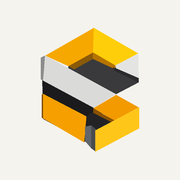
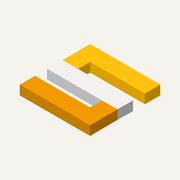
Marca em perspectiva isometrica extrudada, numeros do topo restaurados e avaliacoes completas

Changed region(s): [[0.0833, 0.1389, 0.9167, 0.8611]]

diff --git a/index.html b/index.html
@@ -55,17 +55,8 @@
   <!-- Definições gráficas compartilhadas (marca, ícones e filtros das ilustrações) -->
   <svg class="sprite" aria-hidden="true" focusable="false">
     <defs>
-      <linearGradient id="gHole" x1="0" y1="0" x2="0" y2="1"><stop offset="0" stop-color="#2c2c2e"/><stop offset="1" stop-color="#5a5a5d"/></linearGradient>
-    <linearGradient id="gWallL" x1="0" y1="0" x2="1" y2="0"><stop offset="0" stop-color="#6e4300"/><stop offset="1" stop-color="#a06a00"/></linearGradient>
-    <linearGradient id="gWallR" x1="0" y1="0" x2="1" y2="0"><stop offset="0" stop-color="#b87800"/><stop offset="1" stop-color="#8c5600"/></linearGradient>
-    <linearGradient id="gYL" x1="0" y1="1" x2="1" y2="0"><stop offset="0" stop-color="#F5A100"/><stop offset="1" stop-color="#FFB800"/></linearGradient>
-    <linearGradient id="gYR" x1="0" y1="1" x2="1" y2="0"><stop offset="0" stop-color="#FFC20E"/><stop offset="1" stop-color="#FFD800"/></linearGradient>
-    <linearGradient id="gGrayR" x1="0" y1="0" x2="1" y2="1"><stop offset="0" stop-color="#F2F2F0"/><stop offset="1" stop-color="#C9C9C7"/></linearGradient>
-    <linearGradient id="gGray" x1="0" y1="0" x2="1" y2="1"><stop offset="0" stop-color="#F6F6F4"/><stop offset="1" stop-color="#BDBDBB"/></linearGradient>
-    <linearGradient id="gOr" x1="0" y1="0" x2="1" y2="1"><stop offset="0" stop-color="#FFB000"/><stop offset="1" stop-color="#EE9200"/></linearGradient>
-    <linearGradient id="gOr2" x1="0" y1="0" x2="1" y2="1"><stop offset="0" stop-color="#F6A000"/><stop offset="1" stop-color="#EA8F00"/></linearGradient>
-    <linearGradient id="gYR2" x1="0" y1="1" x2="1" y2="0"><stop offset="0" stop-color="#FFC61A"/><stop offset="1" stop-color="#FFD400"/></linearGradient>
-      <g id="s-mark"><polygon points="108,404 420,572 540,664 432,716 368,700 368,782 112,642" fill="#1e1e20"/><polygon points="265,325 415,240 552,320 692,396 692,420 556,492 265,334" fill="url(#gHole)"/><polygon points="265,322 415,238 415,278 300,342" fill="url(#gWallL)"/><polygon points="415,238 552,318 552,342 415,278" fill="url(#gWallR)"/><polygon points="125,258 420,90 416,238 265,322" fill="url(#gYL)"/><polygon points="420,90 690,245 552,318 416,238" fill="url(#gYR)"/><polygon points="552,318 690,248 692,395 556,336" fill="url(#gGrayR)"/><polygon points="535,330 556,336 692,395 692,420 550,352" fill="#2b2b2d"/><polygon points="108,408 418,576 416,602 376,634 112,492" fill="#1b1b1d"/><polygon points="98,270 122,258 112,410 98,402" fill="#8c8c8c"/><polygon points="125,258 555,492 420,575 112,410" fill="url(#gGray)"/><polygon points="104,495 112,490 112,640 104,636" fill="#7a4a00"/><polygon points="112,490 375,628 362,785 112,640" fill="url(#gOr)"/><polygon points="375,628 415,600 535,662 432,708 385,690" fill="#232325"/><polygon points="368,690 405,682 405,822 368,778" fill="#62666a"/><polygon points="405,682 432,706 432,842 405,822" fill="#484b4e"/><polygon points="418,578 556,496 692,572 545,652" fill="url(#gOr2)"/><polygon points="418,582 545,652 545,672 418,606" fill="#8a5200"/><polygon points="430,712 695,572 695,700 430,842" fill="url(#gYR2)"/></g>
+      
+      <g id="s-mark"><polygon points="180.0,6.0 318.6,86.0 288.1,103.6 149.5,23.6" fill="#FFC20E"/><polygon points="149.5,23.6 288.1,103.6 288.1,124.4 149.5,44.4" fill="#D9A000"/><polygon points="318.6,86.0 288.1,103.6 288.1,124.4 318.6,106.8" fill="#B08000"/><polygon points="149.5,23.6 180.0,41.2 156.4,54.8 126.0,37.2" fill="#FFC20E"/><polygon points="126.0,37.2 156.4,54.8 156.4,75.6 126.0,58.0" fill="#D9A000"/><polygon points="180.0,41.2 156.4,54.8 156.4,75.6 180.0,62.0" fill="#B08000"/><polygon points="126.0,37.2 264.5,117.2 234.0,134.8 95.5,54.8" fill="#F2F1ED"/><polygon points="95.5,54.8 234.0,134.8 234.0,155.6 95.5,75.6" fill="#B9BABC"/><polygon points="264.5,117.2 234.0,134.8 234.0,155.6 264.5,138.0" fill="#8F9093"/><polygon points="203.6,117.2 234.0,134.8 210.5,148.4 180.0,130.8" fill="#F29A00"/><polygon points="180.0,130.8 210.5,148.4 210.5,169.2 180.0,151.6" fill="#C27C00"/><polygon points="234.0,134.8 210.5,148.4 210.5,169.2 234.0,155.6" fill="#995F00"/><polygon points="71.9,68.4 210.5,148.4 180.0,166.0 41.4,86.0" fill="#F29A00"/><polygon points="41.4,86.0 180.0,166.0 180.0,186.8 41.4,106.8" fill="#C27C00"/><polygon points="210.5,148.4 180.0,166.0 180.0,186.8 210.5,169.2" fill="#995F00"/></g>
       <filter id="grain" x="0" y="0" width="100%" height="100%">
         <feTurbulence type="fractalNoise" baseFrequency=".9" numOctaves="2" seed="7"/>
         <feColorMatrix type="matrix" values="0 0 0 0 0  0 0 0 0 0  0 0 0 0 0  0 0 0 1.1 -.3"/>
@@ -86,7 +77,7 @@
   <header class="site-header">
     <div class="wrap">
       <a class="brand" href="#topo" aria-label="Saguiar Premoldados, início">
-        <svg class="brand__mark" viewBox="88 84 618 766" aria-hidden="true"><use href="#s-mark"/></svg>
+        <svg class="brand__mark" viewBox="0 0 360 200" aria-hidden="true"><use href="#s-mark"/></svg>
         <span><span class="brand__name">SAGUIAR</span><span class="brand__sub">PREMOLDADOS</span></span>
       </a>
       <button class="nav-toggle" type="button" aria-label="Abrir menu" aria-expanded="false" aria-controls="menu"><span></span><span></span><span></span></button>
@@ -117,26 +108,24 @@
 
           <div class="stage" aria-hidden="true">
             <div class="stage__mark">
-              <svg viewBox="88 84 618 766" focusable="false">
-          <g class="pc" style="--i:0;--x:0px;--y:-40px"><polygon points="108,404 420,572 540,664 432,716 368,700 368,782 112,642" fill="#1e1e20"/><polygon points="265,325 415,240 552,320 692,396 692,420 556,492 265,334" fill="url(#gHole)"/><polygon points="265,322 415,238 415,278 300,342" fill="url(#gWallL)"/><polygon points="415,238 552,318 552,342 415,278" fill="url(#gWallR)"/></g>
-          <g class="pc" style="--i:1;--x:0px;--y:-130px"><polygon points="125,258 420,90 416,238 265,322" fill="url(#gYL)"/><polygon points="420,90 690,245 552,318 416,238" fill="url(#gYR)"/></g>
-          <g class="pc" style="--i:2;--x:130px;--y:0px"><polygon points="552,318 690,248 692,395 556,336" fill="url(#gGrayR)"/><polygon points="535,330 556,336 692,395 692,420 550,352" fill="#2b2b2d"/></g>
-          <g class="pc" style="--i:3;--x:-130px;--y:0px"><polygon points="108,408 418,576 416,602 376,634 112,492" fill="#1b1b1d"/><polygon points="98,270 122,258 112,410 98,402" fill="#8c8c8c"/><polygon points="125,258 555,492 420,575 112,410" fill="url(#gGray)"/></g>
-          <g class="pc" style="--i:4;--x:0px;--y:130px"><polygon points="104,495 112,490 112,640 104,636" fill="#7a4a00"/><polygon points="112,490 375,628 362,785 112,640" fill="url(#gOr)"/></g>
-          <g class="pc" style="--i:5;--x:0px;--y:110px"><polygon points="375,628 415,600 535,662 432,708 385,690" fill="#232325"/><polygon points="368,690 405,682 405,822 368,778" fill="#62666a"/><polygon points="405,682 432,706 432,842 405,822" fill="#484b4e"/></g>
-          <g class="pc" style="--i:6;--x:130px;--y:80px"><polygon points="418,578 556,496 692,572 545,652" fill="url(#gOr2)"/><polygon points="418,582 545,652 545,672 418,606" fill="#8a5200"/><polygon points="430,712 695,572 695,700 430,842" fill="url(#gYR2)"/></g>
+              <svg viewBox="0 0 360 200" focusable="false">
+          <g class="pc" style="--i:0;--x:0px;--y:-90px"><polygon points="180.0,6.0 318.6,86.0 288.1,103.6 149.5,23.6" fill="#FFC20E"/><polygon points="149.5,23.6 288.1,103.6 288.1,124.4 149.5,44.4" fill="#D9A000"/><polygon points="318.6,86.0 288.1,103.6 288.1,124.4 318.6,106.8" fill="#B08000"/></g>
+          <g class="pc" style="--i:1;--x:-70px;--y:-70px"><polygon points="149.5,23.6 180.0,41.2 156.4,54.8 126.0,37.2" fill="#FFC20E"/><polygon points="126.0,37.2 156.4,54.8 156.4,75.6 126.0,58.0" fill="#D9A000"/><polygon points="180.0,41.2 156.4,54.8 156.4,75.6 180.0,62.0" fill="#B08000"/></g>
+          <g class="pc" style="--i:2;--x:0px;--y:-120px"><polygon points="126.0,37.2 264.5,117.2 234.0,134.8 95.5,54.8" fill="#F2F1ED"/><polygon points="95.5,54.8 234.0,134.8 234.0,155.6 95.5,75.6" fill="#B9BABC"/><polygon points="264.5,117.2 234.0,134.8 234.0,155.6 264.5,138.0" fill="#8F9093"/></g>
+          <g class="pc" style="--i:3;--x:70px;--y:70px"><polygon points="203.6,117.2 234.0,134.8 210.5,148.4 180.0,130.8" fill="#F29A00"/><polygon points="180.0,130.8 210.5,148.4 210.5,169.2 180.0,151.6" fill="#C27C00"/><polygon points="234.0,134.8 210.5,148.4 210.5,169.2 234.0,155.6" fill="#995F00"/></g>
+          <g class="pc" style="--i:4;--x:0px;--y:110px"><polygon points="71.9,68.4 210.5,148.4 180.0,166.0 41.4,86.0" fill="#F29A00"/><polygon points="41.4,86.0 180.0,166.0 180.0,186.8 41.4,106.8" fill="#C27C00"/><polygon points="210.5,148.4 180.0,166.0 180.0,186.8 210.5,169.2" fill="#995F00"/></g>
               </svg>
             </div>
-            <span class="tag tag--1">pré-moldado <b>de concreto</b></span>
-            <span class="tag tag--2">feito em <b>São Luís · MA</b></span>
-            <span class="tag tag--3">entrega <b>na obra</b></span>
+            <span class="tag tag--1">fck <b>≥ 35 MPa</b></span>
+            <span class="tag tag--2">cura <b>28 dias</b></span>
+            <span class="tag tag--3">lote <b>0742 · aprovado</b></span>
           </div>
         </div>
 
         <div class="stats">
-          <div><strong><span data-count="5" data-decimals="1">5,0</span><i>/5</i></strong><span>nota dos clientes no Google</span></div>
-          <div><strong><span data-count="8">8</span></strong><span>linhas de produtos</span></div>
-          <div><strong>MA</strong><span>São Luís, Maranhão</span></div>
+          <div><strong><span data-count="16">16</span><i>+</i></strong><span>anos de fábrica</span></div>
+          <div><strong><span data-count="2400">2.400</span><i>+</i></strong><span>obras atendidas</span></div>
+          <div><strong><span data-count="98">98</span><i>%</i></strong><span>entregas no prazo</span></div>
         </div>
       </div>
     </section>
@@ -325,12 +314,12 @@
           </li>
           <li class="review">
             <span class="stars" role="img" aria-label="5 de 5 estrelas"><svg aria-hidden="true"><use href="#i-star" fill="currentColor"/></svg><svg aria-hidden="true"><use href="#i-star" fill="currentColor"/></svg><svg aria-hidden="true"><use href="#i-star" fill="currentColor"/></svg><svg aria-hidden="true"><use href="#i-star" fill="currentColor"/></svg><svg aria-hidden="true"><use href="#i-star" fill="currentColor"/></svg></span>
-            <blockquote class="is-empty">Avaliou a Saguiar com 5 estrelas.</blockquote>
+            <blockquote>Produto de qualidade, atendimento atencioso e entrega no combinado. Recomendo a Saguiar para quem precisa de pré-moldado de confiança.</blockquote>
             <div class="review__who"><span class="review__avatar" aria-hidden="true">K</span><span><b>Kaique</b><small>Avaliação no Google</small></span></div>
           </li>
           <li class="review">
             <span class="stars" role="img" aria-label="5 de 5 estrelas"><svg aria-hidden="true"><use href="#i-star" fill="currentColor"/></svg><svg aria-hidden="true"><use href="#i-star" fill="currentColor"/></svg><svg aria-hidden="true"><use href="#i-star" fill="currentColor"/></svg><svg aria-hidden="true"><use href="#i-star" fill="currentColor"/></svg><svg aria-hidden="true"><use href="#i-star" fill="currentColor"/></svg></span>
-            <blockquote class="is-empty">Avaliou a Saguiar com 5 estrelas.</blockquote>
+            <blockquote>Peças bem acabadas, preço justo e um atendimento que resolve rápido. Empresa séria, com certeza compro de novo.</blockquote>
             <div class="review__who"><span class="review__avatar" aria-hidden="true">ZF</span><span><b>Zaqueu Figueiredo</b><small>Avaliação no Google</small></span></div>
           </li>
         </ul>
@@ -405,7 +394,7 @@
       <div class="footer__top">
         <div>
           <a class="brand" href="#topo" aria-label="Saguiar Premoldados, voltar ao topo">
-            <svg class="brand__mark" viewBox="88 84 618 766" aria-hidden="true"><use href="#s-mark"/></svg>
+            <svg class="brand__mark" viewBox="0 0 360 200" aria-hidden="true"><use href="#s-mark"/></svg>
             <span><span class="brand__name">SAGUIAR</span><span class="brand__sub">PREMOLDADOS</span></span>
           </a>
           <p class="footer__about">Estrutura forte. Resultado inteligente.<br>Rua da Vitória, 95 · Rio Grande · São Luís – MA</p>

diff --git a/assets/css/styles.css b/assets/css/styles.css
@@ -137,7 +137,7 @@ h2 {
 .site-header .wrap { display: flex; align-items: center; justify-content: space-between; gap: 20px; height: var(--header-h); }
 
 .brand { display: flex; align-items: center; gap: 12px; text-decoration: none; }
-.brand__mark { width: 38px; height: 47px; flex: none; }
+.brand__mark { width: 54px; height: 30px; flex: none; }
 .brand__name {
   display: block; font-family: var(--font-display); font-weight: 900; font-stretch: 112%;
   font-size: 1.25rem; line-height: 1; letter-spacing: 0.02em;
@@ -182,8 +182,8 @@ h2 {
 .hero .lead { color: #4a4b4e; }
 .hero__cta { display: flex; flex-wrap: wrap; gap: 14px; margin-top: 34px; }
 
-.stage { position: relative; width: 100%; max-width: 430px; margin-inline: auto; aspect-ratio: 618 / 766; }
-.stage__mark { position: absolute; inset: 0; transition: transform 0.3s ease-out; }
+.stage { position: relative; width: 100%; max-width: 560px; margin-inline: auto; aspect-ratio: 360 / 250; }
+.stage__mark { position: absolute; inset: 14% 0 6%; transition: transform 0.3s ease-out; }
 .stage__mark svg { width: 100%; height: 100%; display: block; overflow: visible; filter: drop-shadow(0 22px 22px rgba(20, 21, 23, 0.22)); }
 
 .pc { animation: piece 0.95s cubic-bezier(0.2, 0.9, 0.25, 1) both; animation-delay: calc(var(--i) * 90ms + 0.1s); }
@@ -198,9 +198,9 @@ h2 {
   animation: float 5s ease-in-out infinite;
 }
 .tag b { font-weight: 500; color: var(--amber-ink); }
-.tag--1 { top: 6%; right: -4%; }
-.tag--2 { top: 46%; left: -8%; animation-delay: -1.6s; }
-.tag--3 { bottom: 6%; right: -2%; animation-delay: -3.2s; }
+.tag--1 { top: 2%; right: 2%; }
+.tag--2 { bottom: 22%; left: 0; animation-delay: -1.6s; }
+.tag--3 { bottom: 2%; right: 8%; animation-delay: -3.2s; }
 @keyframes float { 50% { transform: translateY(-8px); } }
 
 .stats { display: grid; grid-template-columns: repeat(3, 1fr); margin-top: clamp(32px, 6vw, 80px); border-top: 1px solid rgba(20, 21, 23, 0.2); }
@@ -429,7 +429,7 @@ h2 {
 
 @media (max-width: 900px) {
   .hero__grid { grid-template-columns: 1fr; }
-  .stage { max-width: 320px; }
+  .stage { max-width: 480px; }
   .about, .contact { grid-template-columns: 1fr; }
   .products__head { margin-bottom: 28px; gap: 20px; }
   .reviews__head { gap: 20px; }
@@ -467,18 +467,18 @@ h2 {
   .lead { margin-top: 16px; font-size: 1.05rem; }
   .eyebrow { margin-bottom: 14px; font-size: 0.72rem; }
 
-  .brand__mark { width: 32px; height: 40px; }
+  .brand__mark { width: 46px; height: 26px; }
   .brand__name { font-size: 1.1rem; }
   .brand__sub { font-size: 0.56rem; letter-spacing: 0.36em; }
 
   .hero__grid { gap: 8px; }
   .hero__cta { flex-direction: column; align-items: stretch; margin-top: 26px; }
   .hero__cta .btn { justify-content: center; width: 100%; }
-  .stage { max-width: 250px; }
+  .stage { max-width: 380px; }
   .tag { padding: 4px 7px; font-size: 0.62rem; }
-  .tag--1 { top: 2%; right: -6%; }
-  .tag--2 { top: 52%; left: -6%; }
-  .tag--3 { display: none; }
+  .tag--1 { top: 0; right: 0; }
+  .tag--2 { bottom: 20%; left: 0; }
+  .tag--3 { bottom: 0; right: 4%; }
   .stats { margin-top: 28px; }
   .stats > div { padding: 20px 8px 24px 0; }
   .stats > div + div { padding-left: 14px; }
